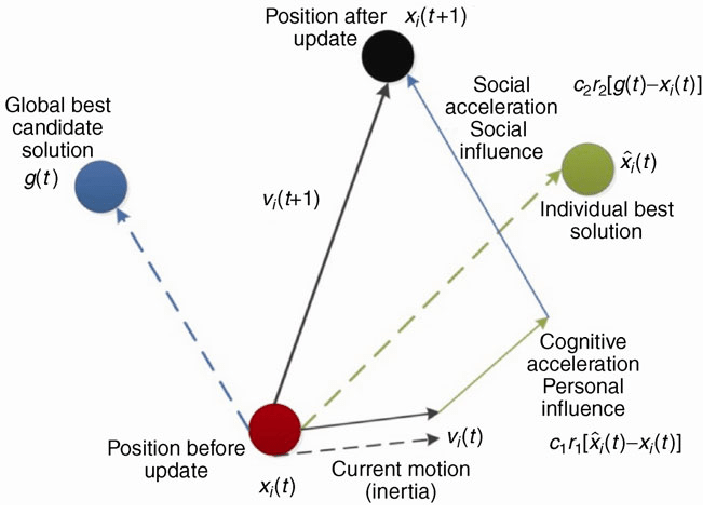
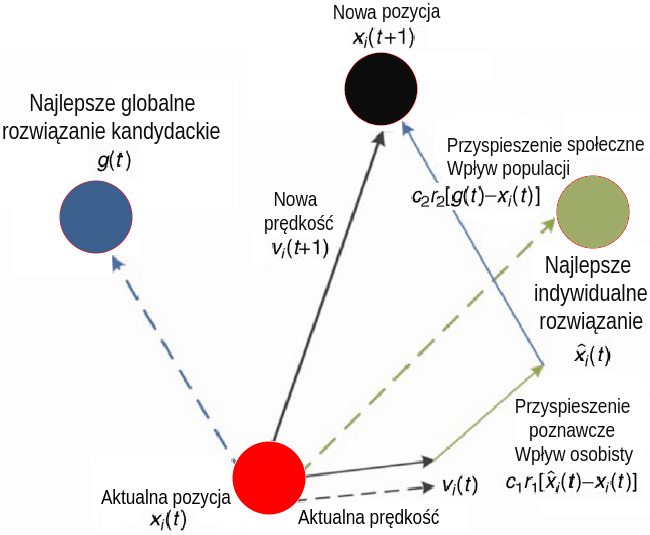
Dodanie sekcji o projekcie systemu

diff --git a/latex_doc/Rozdzialy/projekt_systemu_i_opis_narzedzi.tex b/latex_doc/Rozdzialy/projekt_systemu_i_opis_narzedzi.tex
@@ -1,5 +1,45 @@
-\chapter{Zastosowane technologie}
-\section{Unity}
+\chapter{Projekt systemu i opis narzędzi}
+W niniejszym rozdziale zostaną przedstawione najważniejsze założenia i decyzje projektowe, jakie zostały przyjęte przed rozpoczęciem prac nad aplikacją. Ponadto zamieszczam opis narzędzi, wykorzystanych podczas procesu implementacji systemu.
+
+\section{Projekt systemu}
+Wytwarzanie oprogramowania nie należy do zadań trywialnych. Dotyczy to zwłaszcza prac nad skomplikowanymi systemami informatycznymi. Podstawą sukcesu jest jasne zdefiniowanie założeń projektowych oraz odpowiednie zaplanowanie architektury systemu. Ten etap pracy najlepiej wykonać w początkowych fazach projektu, gdy podejmowanie kluczowych decyzji projektowych nie jest jeszcze obarczone wysokim kosztem.
+
+Podczas fazy projektowania aplikacji postanowiłem rozpatrzeć trzy zagadnienia, które moim zdaniem są najistotniejsze dla dalszego zrozumienia tworzonego systemu. Są to:
+\begin{enumerate*}
+\item Definicja \textbf{rozwiązywanego problemu},
+\item Lista \textbf{celów i założeń aplikacji},
+\item \textbf{Architektura systemu}, rozważana na najwyższym poziomie abstrakcji.
+\end{enumerate*}
+
+Każde z tych zagadnień zostało omówione poniżej.
+
+\subsection{Definicja rozwiązywanego problemu}
+Problemem rozwiązywanym przez aplikację jest trening agentów sterujących samochodami wymodelowanymi w środowisku symulacji. Samochody mają pokonywać wyznaczone tory wyścigowe bez powodowania kolizji ze ścianami. Agenci odbierają informacje o swoim bieżącym położeniu dzięki sensorom odległości, umocowanym na każdym samochodzie. W odpowiedzi na te informacje agenci wysyłają do środowiska symulacji żądania wykonania określonych akcji np. zmiany kąta kierownicy w samochodzie kontrolowanym przez agenta. Oprócz zjawisk opisanych powyżej, środowisko symulacji zlicza wartości przystosowania agentów i zwraca listę tych wartości (po jednej dla każdego agenta) po każdym zakończonym epizodzie symulacji. Wartości przystosowania są bardzo ważne, gdyż bez nich byłoby niemożliwe przeprowadzenie procesu uczenia agentów.
+
+Agentami są jednokierunkowe sieci neuronowe \cite{multilayerNN:article} o prostej topologii (domyślnie składają się z trzech warstw o wymiarach 3-5-2). Parametry sieci neuronowych (wagi i biasy) są dostrajane przy użyciu dwóch algorytmów ewolucyjnych: \textbf{Ewolucji Różnicowej} (patrz sekcja \ref{DeOverview}) oraz \textbf{PSO} (patrz sekcja \ref{PsoOverview}).
+
+\subsection{Cele i założenia}
+Każda aplikacja powinna realizować jakieś cele i założenia. Oto lista celów i założeń, jakie przyjąłem dla swojej aplikacji:
+\begin{enumerate*}
+\item Aplikacja powinna być prosta w obsłudze;
+\item Aplikacja powinna działać na systemach Linux oraz Windows;
+\item Aplikacja powinna zapisywać wytrenowane modele do pliku o ustalonym formacie. Plik ten powinien być później możliwy do odczytu przez aplikację;
+\item Dane konfiguracyjne nie powinny być na sztywno zaszyte w kodzie, lecz dostarczane z zewnętrznego pliku o ustalonym formacie;
+\item Aplikacja powinna dokumentować swój przebieg w plikach dziennika. Pliki dziennika powinny zawierać wszelkie istotne informacje, które mogą być pomocne przy późniejszym debugowaniu;
+\item Eksperymenty obliczeniowe powinny się wykonywać przy minimalnym wysiłku użytkownika. Efektem działania tych eksperymentów powinny być wykresy oraz inne dane, które będzie można zaprezentować przy omawianiu wyników eksperymentów obliczeniowych.
+\end{enumerate*}
+
+\subsection{Architektura systemu}
+\begin{figure}[H]
+\centering
+\includegraphics[width=15cm]{resources/figures/software_architecture.png}
+\caption{Wizualizacja architektury systemu}
+\label{SoftwareArchitecture}
+\end{figure}
+Architektura systemu jest stosunkowo prosta. Składa się z dwóch zasadniczych komponentów: \textbf{środowiska symulacji} oraz \textbf{zestawu skryptów języka Python}. Komponenty komunikują się ze sobą poprzez odpowiedni mechanizm komunikacji. Rysunek \ref{SoftwareArchitecture} przedstawia wizualizację omawianej architektury. Więcej informacji na temat poszczególnych komponentów aplikacji można odnaleźć w rozdziale \ref{ImplementationOverview}-tym. Rozdział ten jest poświęcony opisowi implementacji systemu.
+\section{Zastosowane technologie}
+W niniejszej sekcji opisuję technologie z których korzystałem podczas implementacji mojej aplikacji.
+\subsection{Unity}
 Wieloplatformowy silnik gier 2D lub 3D \cite{unity:opis}. Pozwala również na tworzenie innych materiałów interaktywnych - wizualizacje, animacje itp. Silnik został napisany w językach C/C++ (platforma uruchomieniowa) oraz C\# (Unity API). Skrypty dla silnika pisze się w języku C\#. Gry tworzone na silniku Unity mogą obsługiwać wiele platform sprzętowych i systemów operacyjnych. 
 Platformy wspierane przez wersję 2019.1 \cite{unity:buildOptions}:
 \begin{enumerate*}
@@ -33,12 +73,12 @@ Do wersji 4.6 silnik był udostępniany na licencji płatnej lub darmowej zawier
 
 Unity oferuje również tzw. Asset Store, który umożliwia skorzystanie z płatnych lub darmowych komponentów takich jak tekstury lub skrypty. Silnik Unity został przeze mnie wykorzystany do stworzenia środowiska symulacji, niezbędnego w procesie treningu inteligentnych agentów.
 
-\section{Języki programowania}
+\subsection{Języki programowania}
 Język programowania jest jednym z najważniejszych narzędzi w rękach każdego programisty. Pozwala on na tworzenie oprogramowania w formie zrozumiałej dla człowieka i wykonywalnej dla maszyny.
 Wykonanie kodu źródłowego jest możliwe po przetłumaczeniu go do postaci kodu maszynowego, czyli sekwencji rozkazów zrozumiałych dla procesora. Tłumaczeniem kodu źródłowego na język maszyny zajmują się specjalne programy, zwane \textit{kompilatorami} lub  \textit{interpreterami}. \\
 Poniżej znajduje się krótki opis języków, które wykorzystałem podczas tworzenia aplikacji.
 
-\subsection{C\#}
+\subsubsection{C\#}
 Język programowania stworzony przez firmę Microsoft \cite{csharp:wikipedia}. Najważniejsze cechy:
 \begin{itemize*}
 \item silne, statyczne typowanie;
@@ -49,7 +89,7 @@ Język programowania stworzony przez firmę Microsoft \cite{csharp:wikipedia}. N
 \end{itemize*}
 Język C\# jest przeze mnie wykorzystywany do pisania skryptów dla silnika Unity.
 
-\subsection{Python}
+\subsubsection{Python}
 Język programowania ogólnego przeznaczenia, o rozbudowanym pakiecie bibliotek standardowych 
 \cite{python:wikipedia}.
 Najważniejsze cechy:
@@ -67,9 +107,9 @@ Najważniejsze cechy:
 \end{itemize*}
 W projekcie stosuję język Python w wersji 3.6.8. Do zarządzania zależnościami pakietów, stosuję narzędzie Conda.
 
-\section{Frameworki}
+\subsection{Frameworki}
 Framework jest spójnym zestawem modułów i bibliotek programistycznych, tworzących szkielet do budowy aplikacji danego typu. Programowanie przy użyciu frameworka polega na rozbudowywaniu tego szkieletu o dodatkowe komponenty, które są wymagane dla danego projektu. Korzystanie z frameworków ułatwia życie programistom, gdyż autorzy kodu nie muszą tracić czasu na implementację nudnych i powtarzalnych elementów aplikacji, które są identyczne dla wszystkich aplikacji tego typu. Zamiast tego mogą się skupić na implementacji funkcjonalności realizowanych przez ich oprogramowanie.
-\subsection{Unity ML-Agents}
+\subsubsection{Unity ML-Agents}
 \label{UnityMlaDescription}
 Otwartoźródłowa wtyczka do Unity, ułatwiająca tworzenie środowisk treningowych dla inteligentnych agentów \cite{unitymla:overview}. Agenci mogą być uczeni rozmaitymi technikami, m. in.:
 \begin{itemize*}
@@ -171,7 +211,7 @@ Więcej informacji na temat omawianej wersji frameworka można znaleźć w oficj
 \url{https://github.com/Unity-Technologies/ml-agents/tree/0.9.1/docs}
 \end{center}
 
-\subsection{PyTorch}
+\subsubsection{PyTorch}
 Otwartoźródłowy framework uczenia maszynowego przeznaczony dla języków Python i C++.
 Najważniejsze cechy i funkcjonalności frameworka \cite{pytorch:features}\cite{pytorch:vs:tensorflow}:
 \begin{enumerate*}
@@ -197,24 +237,24 @@ Najważniejsze cechy i funkcjonalności frameworka \cite{pytorch:features}\cite{
 \end{enumerate*}
 Framework PyTorch składa się z wielu modułów. Najistotniejszym dla mnie modułem był moduł torch.nn, który wykorzystałem do implementacji sieci neuronowej. Więcej na ten temat można znaleźć w rozdziale poświęconym implementacji systemu.
 
-\section{Biblioteki}
+\subsection{Biblioteki}
 Biblioteka programistyczna to zbiór powiązanych tematycznie jednostek kodu (takich jak klasy czy funkcje). Użycie biblioteki to sposób na ponowne wykorzystanie tego samego kodu. Dobór odpowiednich bibliotek pozwala na znaczne przyspieszenie procesu tworzenia oprogramowania. Poniżej znajduje się krótkie zestawienie bibliotek wykorzystywanych w mojej aplikacji.
 
-\subsection{ddt}
+\subsubsection{ddt}
 \label{DdtOpis}
 Pakiet dla języka Python \cite{ddt:documentation}. Pozwala na łatwe tworzenie parametryzowanych testów. Stosowany jako rozszerzenie funkcjonalności frameworków testowych, takich jak unittest (który wchodzi w skład biblioteki standardowej Pythona). Nazwa pakietu pochodzi od metodyki DDT - Data Driven Testing, która zakłada oddzielenie logiki testu od danych na których test operuje. Takie podejście pozwala w znacznym stopniu ograniczyć duplikację kodu w klasach testowych.
-\subsection{docopt}
+\subsubsection{docopt}
 \label{docoptOpis}
 Pakiet pomagający utworzyć interfejs wiersza poleceń \cite{docopt:documentation}. Pakiet docopt jest oparty na konwencji, wykorzystywanej przez lata dla komunikatów pomocy i stron podręcznika man. Opis interfejsu jest sformalizowanym komunikatem pomocy.
-\subsection{matplotlib}
+\subsubsection{matplotlib}
 \label{matplotlibDescription}
 Biblioteka do tworzenia wykresów dla języka Python. Uchodzi za wszechstronne, lecz trudne w opanowaniu narzędzie.
-\section{Conda}
+\subsection{Conda}
 System open source do zarządzania pakietami i środowiskami uruchomieniowymi dla systemów Windows, macOS oraz Linux. Posiada wsparcie dla wielu języków, m. in. Python, R, Ruby, Lua, Scala \cite{conda:documentation}.
 Conda potrafi szybko instalować, uruchamiać i aktualizować pakiety wraz z ich zależnościami.
 Bardzo łatwo można tworzyć nowe wirtualne środowiska dla Pythona.
 
-\section{Wykorzystywane wersje oprogramowania}
+\subsection{Wykorzystywane wersje oprogramowania}
 \begin{enumerate*}
 \item Silnik Unity - 2019.1.12f
 \item C\# - Mono 6.4.0.198
@@ -227,7 +267,7 @@ Bardzo łatwo można tworzyć nowe wirtualne środowiska dla Pythona.
 \item Conda - 4.7.5
 \end{enumerate*}
 
-\section{Stacja robocza - specyfikacja techniczna}
+\subsection{Stacja robocza - specyfikacja techniczna}
 Poniżej zamieszczam specyfikację techniczną stacji roboczej (komputera), którą wykorzystałem do implementacji systemu oraz wszystkich eksperymentów obliczeniowych:
 \begin{enumerate*}
 \item Typ urządzenia - Laptop

diff --git a/latex_doc/Rozdzialy/wstep_do_uczenia_maszynowego.tex b/latex_doc/Rozdzialy/wstep_do_uczenia_maszynowego.tex
@@ -134,6 +134,7 @@ Algorytmy ewolucyjne to algorytmy optymalizacji czarnej skrzynki, czyli optymali
 Poniżej zamieszczam opis dwóch algorytmów ewolucyjnych, z których korzystałem podczas implementacji aplikacji. Algorytmy te posłużyły mi przy dostrajaniu parametrów sieci (wag i biasów). Więcej informacji na ten temat znajduje się w sekcji \ref{TrainingScripts}.
 
 \subsection{Ewolucja Różnicowa}
+\label{DeOverview}
 Jego angielska nazwa to \textit{Differential Evolution} (DE). Po raz pierwszy został zaproponowany w artykule z 1997 roku, którego autorami byli Rainer Storn oraz Kenneth Price \cite{de:firstArticle}. Jest bardzo popularnym algorytmem ewolucyjnym. Na przykład Europejska Agencja Kosmiczna (ESA) wykorzystuje Ewolucję Różnicową do projektowania optymalnych trajektorii lotu potrzebnych do wejścia na orbitę planety przy użyciu możliwie najmniejszej ilości paliwa \cite{de:esaArticle}.
 
 W Ewolucji Różnicowej, rozwiązania są reprezentowane jako osobniki należące do populacji. Każdy osobnik jest wektorem liczb rzeczywistych. Te liczby rzeczywiste to parametry funkcji, dla której szukamy globalnego optimum. Funkcja zaś określa, jak dobrze przystosowany jest dany osobnik z populacji. \\
@@ -146,48 +147,74 @@ Algorytm powinien mieć jasno zdefiniowane warunki, dla których jego wykonanie 
 \item Dla każdego osobnika $x$ w populacji:
 \begin{enumerate*}
 \item \textbf{Ocena przystosowania} \\
-Osobnik wysyłany jest do funkcji przystosowania. Wartości przystosowań są zapisywane w odpowiedniej strukturze danych. Ta struktura jest potrzebna w dalszych krokach algorytmu.
+Osobnik jest oceniany za pomocą funkcji przystosowania. Wartości przystosowań są zapisywane w odpowiedniej strukturze danych. Ta struktura jest potrzebna w dalszych krokach algorytmu.
 \item \textbf{Mutacja i krzyżowanie} \\
 Należy wybrać z populacji trzech osobników $a, b, c$ którzy są różni od siebie oraz różni od osobnika $x$. Następnie z osobników $a, b, c$ tworzy się tzw. ,,\textit{mutant vector}''. Jest to osiągane poprzez obliczanie różnicy pomiędzy wektorami $b, c$, przemnożeniu jej przez stałą zwaną ,,faktorem mutacji'' (\textit{mutation factor}) i dodaniu przemnożonej różnicy do wektora $a$.
 W efekcie tych obliczeń otrzymujemy tzw. ,,rozwiązanie kandydackie''.
 \item \textbf{Wymiana wektorów} \\
-Rozwiązanie kandydackie, otrzymane w poprzednim kroku, wysyłane jest do funkcji przystosowania. Jeśli te rozwiązanie jest lepiej przystosowane od osobnika $x$, to wektory są podmieniane.
+Rozwiązanie kandydackie, otrzymane w poprzednim kroku, jest oceniane za pomocą funkcji przystosowania. Jeśli te rozwiązanie jest lepiej przystosowane od osobnika $x$, to wektory są podmieniane.
 \end{enumerate*}
 \item Powrót do punktu 2.
 \end{enumerate*}
 
-Opisany powyżej algorytm to podstawowa wersja Ewolucji Różnicowej. Z takiej wersji korzystam w swojej implementacji. Sprawdza się ona znakomicie. Istnieje jednak wiele tego algorytmu. Część z nich została opisana w artykule \cite{de:tutorial}.
+Opisany powyżej algorytm to podstawowa wersja Ewolucji Różnicowej. Z takiej wersji korzystam w swojej implementacji. Sprawdza się ona znakomicie. Istnieje jednak wiele innych wersji tego algorytmu. Część z nich została opisana w artykule \cite{de:tutorial}.
 
+\vspace{1cm}
 \subsection{Optymalizacja Roju Cząstek}
+\label{PsoOverview}
 Jego angielska nazwa to \textit{Particle Swarm Optimization} (PSO).
 Został zaproponowany przez Jamesa Kennedy’ego i Russella Eberharta w artykule z 1995 roku \cite{pso:originalPaper}.
 
-Jak wynika z artykułu \cite{pso:implementingInPython}, jest to algorytm populacyjny, inpirowany naturalnym zachowaniem zwierząt stadnych. Należy do grupy algorytmów inteligencji rojowej (rozproszonej), do której klasyfikowany jest także m.in. algorytm kolonii mrówkowej (\textbf{Ant Colony Algorithm}) oraz
+Jak wynika z artykułu \cite{pso:implementingInPython}, jest to algorytm populacyjny, inpirowany naturalnym zachowaniem zwierząt stadnych. Należy do grupy algorytmów inteligencji rojowej (rozproszonej), do której klasyfikowany jest także m.in. algorytm mrowiskowy (\textbf{Ant Colony Algorithm}) oraz
 algorytm żerowania bakterii (\textbf{Bacterial Foraging Optimization Algorithm}).
 
 Podstawowymi pojęciami algorytmu PSO są Populacja (Rój) oraz Osobnik (Cząstka).
-Cząstka reprezentuje pojedyncze rozwiązanie w n-wymiarowej przestrzeni rozwiązań. \\
-Każda cząstka posiada pozycję oraz prędkość. Są to n-wymiarowe wektory liczb rzeczywistych. Pozycja (\textit{position}) określa bieżącą pozycję cząstki w przestrzeni rozwiązań. \\
+Cząstka \hfill reprezentuje \hfill pojedyncze \hfill rozwiązanie w \hfill n-wymiarowej \hfill przestrzeni \hfill rozwiązań. \\
+Każda cząstka posiada pozycję oraz prędkość. Są to n-wymiarowe wektory liczb rzeczywistych. Pozycja \hfill (\textit{position}) \hfill określa \hfill bieżącą \hfill pozycję \hfill cząstki \hfill w \hfill przestrzeni \hfill rozwiązań. \\
 Prędkość (\textit{velocity}) określa kierunek cząstki oraz odległość, jaką pokona w kolejnej iteracji algorytmu. Nowa pozycja cząstki jest obliczana poprzez dodanie bieżącej prędkości cząstki do starej pozycji.
 
 Populacja to zbiór cząstek. Populacja przemieszcza się po wirtualnej przestrzeni rozwiązań, wykorzystując kooperację cząstek w celu odnalezienia globalnego optimum.
 Populacja wraz z upływem kolejnych iteracji będzie zbiegać do najlepszego rozwiązania globalnego.
 
-Warto wspomnieć, że algorytm PSO nie wykorzystuje Spadku Gradientu, zatem może on być wykorzystywany do optymalizacji funkcji które nie mogą być różniczkowane. \\
-Rysunek \ref{PsoPseudocode} przedstawia pseudokod algorytmu PSO.
+Warto wspomnieć, że algorytm PSO nie wykorzystuje Spadku Gradientu, zatem może on być wykorzystywany do optymalizacji funkcji, które nie mogą być różniczkowane. \\
+\newpage
+Pseudokod algorytmu PSO przedstawia się w sposób następujący:
+\begin{enumerate*}
+\item \textbf{Inicjalizacja populacji} \\
+Utwórz $n$ cząstek. Dla każdej cząstki wyznacz wektory pozycji i prędkości, które są inicjalizowane liczbami losowymi z zadanego przedziału.
+\item \textbf{Dla każdej cząstki $i$:}
+\begin{enumerate*}
+\item Ocena wartości przystosowania cząstki
+\item Jeśli przystosowanie jest lepsze od najlepszego przystosowania $i$-tej cząstki, to przypisz bieżącą pozycję cząstki do zmiennej $p_i$. Jest to zmienna przechowująca najlepszą historycznie pozycję $i$-tej cząstki.
+\item Jeśli przystosowanie jest lepsze od najlepszego globalnie przystosowania, to przypisz bieżącą pozycję cząstki do zmiennej $p_g$. Jest to zmienna przechowująca najlepszą pozycję uzyskaną historycznie przez jakąkolwiek cząstkę z populacji.
+\end{enumerate*}
+\item \textbf{Sprawdzenie warunku stopu} \\
+Przerwij algorytm, jeśli wystąpi warunek stopu. Warunkiem stopu może być np. znalezienie globalnego optimum lub osiągnięcie maksymalnej liczby dozwolonych iteracji.
+\item \textbf{Dla każdej cząstki $i$:}
+\begin{enumerate*}
+\item Oblicz nową prędkość $i$-tej cząstki ze wzoru: \\
+\begin{center}
+\begin{Large}
+$v_i(k+1) = w\ v_i(k) + c_1rand_1(p_i - x_i) + c_2rand_2(p_g - x_i)$
+\end{Large}
+\end{center}
 \vspace{0.5cm}
-\begin{figure}[H]
-\centering
-\includegraphics[width=13.5cm]{resources/figures/pso_pseudocode.png}
-\caption{Pseudokod algorytmu PSO}
-\label{PsoPseudocode}
-\end{figure}
-
-Kluczowym elementem algorytmu jest równanie obliczające nową prędkość cząstki. \\ Poniżej zamieściłem objaśnienia symboli zastosowanych w tym równaniu: \\ \\
-$v_i$(k+1) -- nowa prędkość cząstki (prędkość cząstki w k+1-tej iteracji) \\
-W -- parametr bezwładnościowy (\textit{inertial parameter}). Wskazuje na ważność bieżącej prędkości przy obliczeniu nowej prędkości. \\
+Objaśnienia symboli: \\
+$x_i$ -- bieżąca pozycja $i$-tej cząstki
+$v_i(k+1)$ -- nowa prędkość cząstki (prędkość cząstki w k+1-tej iteracji) \\
+$w$ -- parametr bezwładnościowy (\textit{inertial parameter}). Wskazuje na ważność bieżącej prędkości przy obliczeniu nowej prędkości. \\
 $c_1$, $c_2$ -- współczynniki przyspieszenia. $c_1$ wskazuje na ważność najlepszej wartości cząstki ($p_i$), natomiast $c_2$ na ważność najlepszej globalnej wartości dla całej populacji ($p_g$). \\
-$rand_1$ , $rand_2$  - liczby losowe z przedziału [0 ; 1]. \\ \\
+$rand_1$ , $rand_2$  -- liczby losowe z przedziału [0 ; 1].
+\item Wyznacz nową pozycję $i$-tej cząstki:
+\begin{center}
+\begin{Large}
+$x_i(k+1) = x_i(k) + v_i(k+1)$
+\end{Large}
+\end{center}
+\end{enumerate*}
+\item \textbf{Powrót do punktu 2}.
+\end{enumerate*}
+
 Rysunek \ref{ParticleNewPosition} przedstawia wizualizację procesu obliczania nowej pozycji cząstki:
 \vspace{0.5cm}
 \begin{figure}[H]

diff --git a/latex_doc/Rozdzialy/opis_implementacji.tex b/latex_doc/Rozdzialy/opis_implementacji.tex
@@ -1,4 +1,5 @@
 \chapter{Opis implementacji}
+\label{ImplementationOverview}
 Zgodnie z opisem frameworka Unity ML-Agents, zawartego w sekcji \ref{UnityMlaDescription}, zrealizowany przeze mnie projekt można podzielić na dwa moduły:
 
 \begin{enumerate*}
@@ -112,10 +113,10 @@ W przypadku mojej implementacji, polega to na utworzeniu populacji agentów.
 Jest wykonywana po każdym zakończonym epizodzie symulacji. Epizod symulacji kończy się, gdy zostaje wywołana metoda \textit{Done} z klasy Academy. \\
 Metoda \textit{AcademyReset} powinna przygotować Środowisko Uczenia do kolejnego epizodu symulacji. W przypadku mojej implementacji, polega to na przemieszczeniu wszystkich agentów do pozycji początkowej i wyzerowaniu ich nagród.
 \item \textit{AcademyStep} \\
-Jest wykonywana dla każdego kroku symulacji. W przypadku mojej implementacji, metoda ta jest odpowiedzialna za sprawdzanie, czy wszyscy agenci umarli w bieżącym epizodzie. Jeśli tak, wywoływana jest metoda \textit{Done}.
+Jest wykonywana dla każdego kroku symulacji. W przypadku mojej implementacji, metoda ta jest odpowiedzialna za sprawdzanie, czy wszyscy agenci zakończyli jazdę w bieżącym epizodzie. Jeśli tak, wywoływana jest metoda \textit{Done}.
 \end{enumerate*}
 
-Oprócz powyżej opisanych, klasa RaceTrackAcademy zawiera również kilka metod pomocniczych. Wspomagają one tworzenie populacji agentów oraz naliczanie agentów umarłych w bieżącym epizodzie.
+Oprócz powyżej opisanych, klasa RaceTrackAcademy zawiera również kilka metod pomocniczych. Wspomagają one tworzenie populacji agentów oraz naliczanie agentów którzy zakończyli jazdę w bieżącym epizodzie.
 
 Bardzo ważnym aspektem klasy RaceTrackAcademy, o którym również należy wspomnieć, są publiczne pola instancyjne klasy. 
 To parametry mające duży wpływ na zachowanie Środowiska Uczenia. Wartości tych parametrów mogą być ustawiane z poziomu edytora Unity.
@@ -123,12 +124,12 @@ Oto lista pól instancyjnych klasy:
 \begin{itemize*}
 \item CarAgentBrain - obiekt klasy dziedziczącej po klasie Brain. Więcej szczegółów na ten temat znajduje się w sekcji \ref{UnityMlaDescription}.
 \item CarAgentPrefab - zmienna przechowuje referencję do obiektu reprezentującego wzorcowy model agenta. Podczas tworzenia populacji, model ten jest klonowany dla każdego z agentów.
-\item StartAgentPosition - pozycja startowa agenta. Jest to wektor określający pozycję agenta, jaką będzie on miał na początku każdego epizodu symulacji.
+\item StartAgentPosition - pozycja startowa agenta. Jest to wektor określający pozycję agenta jaką będzie on miał na początku każdego epizodu symulacji.
 \item StartAgentRotation - liczba typu float. Określa, w którą stronę jest skierowany samochód na początku każdego epizodu.
 \item CarAgentScale - liczba typu float. Określa rozmiar klonowanych modeli w stosunku do rozmiaru modelu oryginalnego (wskazywanego przez zmienną CarAgentPrefab).
 \item MaxSensorLength - liczba typu float. Określa maksymalny dystans, rejestrowany przez sensory wejściowe samochodów.
 \item FieldOfView - liczba typu float. Określa ,,kąt widzenia'' sensorów wejściowych. Wartości podawane są w stopniach. Maksymalna dozwolona wartość (będąca zarazem wartością domyślną dla zmiennej) to 180 stopni.
-\item RaysCount - liczba typu int. Określa ilość sensorów wejściowych. Musi to być liczba dodatnia większa lub równa 2.
+\item RaysCount - liczba typu int. Określa liczbę sensorów wejściowych. Musi to być liczba dodatnia większa lub równa 2.
 \item MaxSteeringAngle - liczba typu float. Określa maksymalny dozwolony kąt skrętu kół przednich w samochodzie. Wartości podawane są w stopniach. Domyślnie jest to 30 stopni.
 \item MotorForce - liczba typu float. Określa ,,moc silnika'' w samochodzie.
 \item PopulationSize - rozmiar populacji agentów, tworzonej w Środowisku Uczenia.
@@ -145,7 +146,7 @@ Wykonywana dla każdego kroku symulacji. Odpowiada za zbieranie obserwacji agent
 \item \textit{AgentAction} \\
 Wykonywana dla każdego kroku symulacji. Odpowiada za zdefiniowanie zachowania agenta na podstawie danych (akcji) otrzymywanych z mózgu.
 \item \textit{AgentOnDone} \\
-Metoda definiuje zachowanie agenta gdy ten umiera i zmienna AgentParameters.\textit{resetOnDone} jest ustawiona na wartość \textit{false}.
+Metoda definiuje zachowanie agenta gdy ten kończy symulację i zmienna AgentParameters.\textit{resetOnDone} jest ustawiona na wartość \textit{false}.
 \end{enumerate*}
 
 Oprócz powyższych metod, klasa CarAgent zawiera również kilka metod pomocniczych. Najważniejsze z nich to:
@@ -293,7 +294,7 @@ Options:
     return options
 \end{minted}
 
-Parsowanie argumentów linii poleceń odbywa się w funkcji \textit{getProgramOptions}. String APP\_USAGE\_DESCRIPTION zawiera sformalizowany opis, wykonany według schematu określonego w dokumentacji \cite{docopt:documentation}. Funkcja \textit{docopt} parsuje tego stringa oraz listę argumentów dostarczoną przy wywołaniu z linii poleceń. \textit{docopt} weryfikuje, czy podane argumenty zgadzają się z definicją API. Jeśli tak, to funkcja zwraca słownik zawierający przeparsowane argumenty.
+Parsowanie argumentów linii poleceń odbywa się w funkcji \textit{getProgramOptions}. Łańcuch APP\_USAGE\_DESCRIPTION zawiera sformalizowany opis, wykonany według schematu określonego w dokumentacji \cite{docopt:documentation}. Funkcja \textit{docopt} parsuje ten łańcuch oraz listę argumentów dostarczoną przy wywołaniu z linii poleceń. \textit{docopt} weryfikuje, czy podane argumenty zgadzają się z definicją API. Jeśli tak, to funkcja zwraca słownik zawierający odczytane argumenty.
 Na przykład dla wywołania:
 \vspace{0.5cm}
 \begin{figure}[H]
@@ -323,7 +324,7 @@ Skrypty treningowe odpowiadają za trenowanie nowych modeli. Trening odbywa się
 \end{itemize*}
 Obydwa skrypty można wywołać na jeden z dwóch sposobów - z poziomu linii poleceń lub z poziomu kodu źródłowego innego skryptu.
 
-Skrypty mają podobny przebieg logiczny. Można go opisać za pomocą poniższej listy kroków:
+Wykonanie skryptów ma podobny przebieg. Można go opisać za pomocą poniższej listy kroków:
 \begin{enumerate*}
 \item Parsowanie argumentów wywołania
 \item Wczytanie danych z pliku konfiguracyjnego
@@ -410,7 +411,7 @@ Dane zapisywane po treningu to: plik loga, najlepszy wytrenowany agent oraz (opc
 Plik zawiera definicje funkcji pomocniczych, które są wykorzystywane w innych skryptach modułu. Jest tutaj zdefiniowana między innymi funkcja przystosowania (wykorzystywana w skryptach treningowych), która implementuje jeden pełny przebieg symulacji w Środowisku Uczenia. Funkcja ta wykorzystuje Pythonowe API, zdefiniowane przez twórców frameworka Unity ML-Agents (patrz \ref{UnityMlaDescription}).
 
 \subsubsection{ChartsGenerator.py}
-Plik zawiera definicję klasy ChartsGenerator, która odpowiada za tworzenie wykresów na podstawie danych wygenerowanych podczas eksperymentów obliczeniowych. \\
+Plik zawiera definicję klasy ChartsGenerator, która odpowiada za tworzenie wykresów na \hfill podstawie \hfill danych \hfill wygenerowanych \hfill podczas \hfill eksperymentów \hfill obliczeniowych. \\
 Do tworzenia wykresów wykorzystywana jest biblioteka matplotlib (patrz \ref{matplotlibDescription}).
 
 \vspace{0.5cm}

diff --git a/latex_doc/Rozdzialy/samochody_autonomiczne.tex b/latex_doc/Rozdzialy/samochody_autonomiczne.tex
@@ -164,7 +164,7 @@ Cechuje się wysoką efektywnością energetyczną. Potrafi utrzymywać w wykona
 \end{figure}
 
 \item NVIDIA DRIVE AGX Xavier \\
-Jest mniejszy od Pegasusa. Dostarcza jedynie 30 TOPS mocy obliczeniowej. Charakteryzuje się jednak bardzo niskim zużyciem energii, pobiera tylko 30 watów. Przeznaczony dla systemów wspomagania kierowcy. Zbyt słaby dla wsparcia w pełni autonomicznych systemów jazdy.
+Jest mniejszy od Pegasusa. Dostarcza jedynie 30 TOPS mocy obliczeniowej. Charakteryzuje się jednak bardzo niskim zużyciem energii, pobiera tylko 30 watów. Przeznaczony dla systemów wspomagania kierowcy. Zbyt mało wydajny dla wsparcia w pełni autonomicznych systemów jazdy.
 \vspace{0.3cm}
 \begin{figure}[H]
 \centering
@@ -260,7 +260,7 @@ Więcej informacji na temat symulatora AirSim można znaleźć w następujących
 Darmowy, otwartoźródłowy symulator przeznaczony do rozwoju samochodów autonomicznych. Zapoczątkowany przez Craiga Quitera, programistę od lat zaangażowanego w tworzenie oprogramowania open source.
 
 Jak opisuje Drew Gray, szef działu technologicznego \cite{investopedia:CTO} w firmie Voyage \cite{voyage:introducingDeepdrive}: \\
-,,Historia Deepdrive ma swój początek kilka lat temu, gdy Craig - zainspirowany postępem w dziedzinie AI oraz korzyściami jakie społeczeństwo zyska dzięki samochodom autonomicznym - rozpoczął projekt otwartoźródłowej platformy, która daje możliwość rozwoju technologii \textit{self-driving} każdej osobie żyjącej na świecie.''
+,,Historia Deepdrive ma swój początek kilka lat temu, gdy Craig - zainspirowany postępem w dziedzinie AI oraz korzyściami jakie społeczeństwo zyska dzięki samochodom autonomicznym - rozpoczął projekt otwartoźródłowej platformy, która daje możliwość rozwoju technologii \textit{self-driving} każdej osobie na świecie.''
 
 Gray znał Quitera od dawna. Wiedział o rozwijanym przez niego projekcie i namówił go do współpracy z firmą Voyage. Quiter dołączył do firmy, która to objęła patronat nad dalszym rozwojem symulatora. Niemniej jednak projekt zachował swój pierwotny, otwartoźródłowy charakter.
 
@@ -281,12 +281,10 @@ Wśród nowości zaproponowanych przez firmę Voyage znajdują się m. in.:
 \item Tablica liderów (\textit{Leaderboard}) - usługa oferowana w ramach symulatora Deepdrive. Zawiera zestawienia rankingowe dla wyzwań ogłoszonych przez zespół Voyage Deepdrive. Pozwala na rywalizację zespołów badawczych, pracujących nad rozwiązaniem danego problemu. Każdy kto zapisze się do usługi, może zgłosić własne rozwiązanie, które następnie zostanie ocenione według kryteriów zdefiniowanych przez organizatorów wyzwania. Więcej informacji znajduje się na oficjalnej stronie usługi \cite{deepdrive:leaderboard}.
 \item Szczegółowe mapy świata 3D, zbudowane przy pomocy narzędzia \textit{Parallel Domain} \cite{parallelDomain}. Bogate środowiska symulacyjne zapewniają bardziej realistyczne testy tworzonych modeli.
 \item Możliwość generowania nowych scenariuszy testowych przez użytkowników symulatora
-\item Zbiór danych treningowych - dane zebrane z ponad 8 godzin jazdy. Łącznie ważą 100 GB. Są to m. in. obrazy z kamer, kąt skrętu kierownicy czy wartości pedałów gazu i hamulca. Dane zostały wstępnie przetworzone, w celu zwiększenia efektywności treningu.
+\item Zbiór danych treningowych - dane zebrane z ponad 8 godzin jazdy. Mają rozmiar około 100 GB. Są to m. in. obrazy z kamer, kąt skrętu kierownicy czy wartości pedałów gazu i hamulca. Dane zostały wstępnie przetworzone, w celu zwiększenia efektywności treningu.
 \end{itemize*}
 
-Rysunek \ref{DeepdriveArchitecture} przedstawia schemat reprezentujący architekturę systemu. Na jego podstawie można wysnuć ciekawe wnioski na temat sposobu funkcjonowania symulatora.
-
-Więcej informacji na temat instalacji systemu oraz jego użytkowania można odnaleźć na stronie repozytorium projektu \cite{deepdrive:github}.
+Rysunek \ref{DeepdriveArchitecture} przedstawia schemat reprezentujący architekturę systemu. Na jego podstawie można wysnuć ciekawe wnioski na temat sposobu funkcjonowania symulatora. Więcej informacji na temat instalacji systemu oraz jego użytkowania można odnaleźć na stronie repozytorium projektu \cite{deepdrive:github}.
 
 \section{Projekty modelarskie}
 Projekty modelarskie charakteryzują się tym, iż tworzone są z myślą o modelach pojazdów wykonanych w pewnej skali. Takie projekty cieszą się dość dużą popularnością, a wynika to z kilku faktów. \\
@@ -321,7 +319,7 @@ Jest to minimalny zestaw, wymagany do poprawnego funkcjonowania platformy. Oczyw
 Standardowym samochodem, od którego wiele osób rozpoczyna przygodę z platformą Donkey Car, jest \textit{Donkey}.
 W oficjalnej dokumentacji projektu \cite{donkeycar:docs} znajdują się wszystkie informacje, niezbędne do samodzielnego zbudowania samochodu.
 
-Sercem platformy jest biblioteka donkeycar, napisana w języku Python. Przeznaczona jest do rozwoju samochodów autonomicznych, jej cechami są modularność i minimalizm. Wykorzystując tę bibliotekę, programowanie samochodu jest bajecznie proste. Oto przykład z oficjalnej dokumentacji, w którym samochód po rozpoczęciu pętli jazdy wykonuje zdjęcia i zapisuje je do wbudowanej pamięci:
+Sercem platformy jest biblioteka donkeycar, napisana w języku Python. Przeznaczona jest do rozwoju samochodów autonomicznych, jej cechami są modularność i minimalizm. Wykorzystując tę bibliotekę, programowanie samochodu jest bardzo łatwe. Oto przykład z oficjalnej dokumentacji, w którym samochód po rozpoczęciu pętli jazdy wykonuje zdjęcia i zapisuje je do wbudowanej pamięci:
 
 \begin{minted}[ fontsize=\fontsize{13}{13} ] {python}
 import donkey as dk

diff --git a/latex_doc/main.tex b/latex_doc/main.tex
@@ -185,10 +185,9 @@ $^1$. uwzględniając merytoryczny wkład promotora (w ramach prowadzonego semin
 \onehalfspacing
 
 \input{Rozdzialy/wstep.tex}
-\input{Rozdzialy/przeglad_istniejacych_rozwiazan.tex}
-\input{Rozdzialy/wstep_do_sieci_neuronowych.tex}
-\input{Rozdzialy/projekt_systemu.tex}
-\input{Rozdzialy/zastosowane_technologie.tex}
+\input{Rozdzialy/samochody_autonomiczne.tex}
+\input{Rozdzialy/wstep_do_uczenia_maszynowego.tex}
+\input{Rozdzialy/projekt_systemu_i_opis_narzedzi.tex}
 \input{Rozdzialy/opis_implementacji.tex}
 \input{Rozdzialy/eksperymenty_obliczeniowe.tex}
 \input{Rozdzialy/podsumowanie.tex}

diff --git a/latex_doc/Rozdzialy/eksperymenty_obliczeniowe.tex b/latex_doc/Rozdzialy/eksperymenty_obliczeniowe.tex
@@ -1,2 +1,3 @@
 \chapter{Ekperymenty obliczeniowe}
-\section{Weryfikacja skuteczności uczenia}
+\section{Metodyka eksperymentów}
+\section{Analiza uzyskanych wyników}
